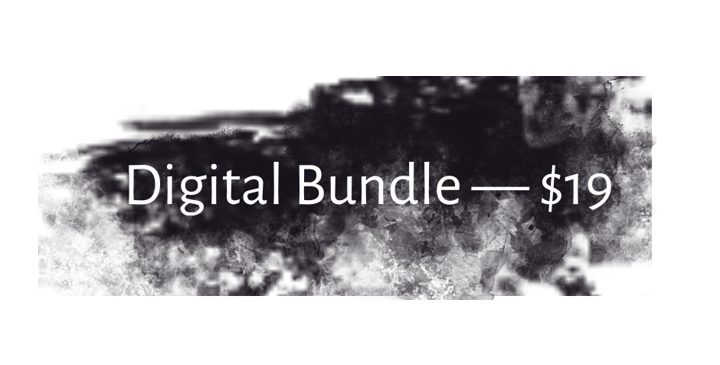
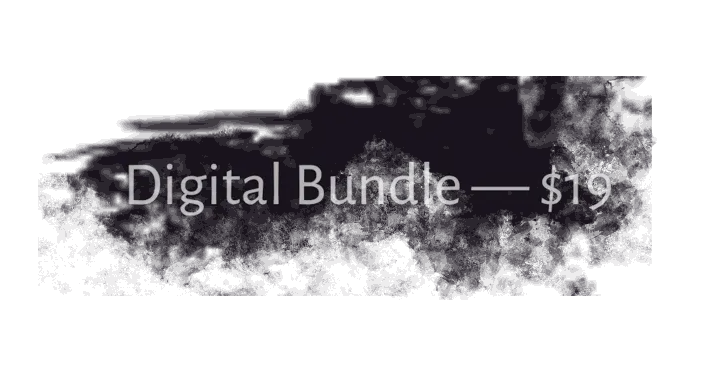
Make button dimmer and smaller

Changed region(s): [[0.0611, 0.211, 0.9167, 0.8438], [0.8556, 0.211, 0.8861, 0.2411]]

diff --git a/door/style.css b/door/style.css
@@ -88,7 +88,7 @@ h2 {
 /* Buy Button Specific Interactions */
 .terminal-buy-link {
   display: block;
-  width: 90%;
+  width: 65%;
   text-decoration: none;
 }
 
